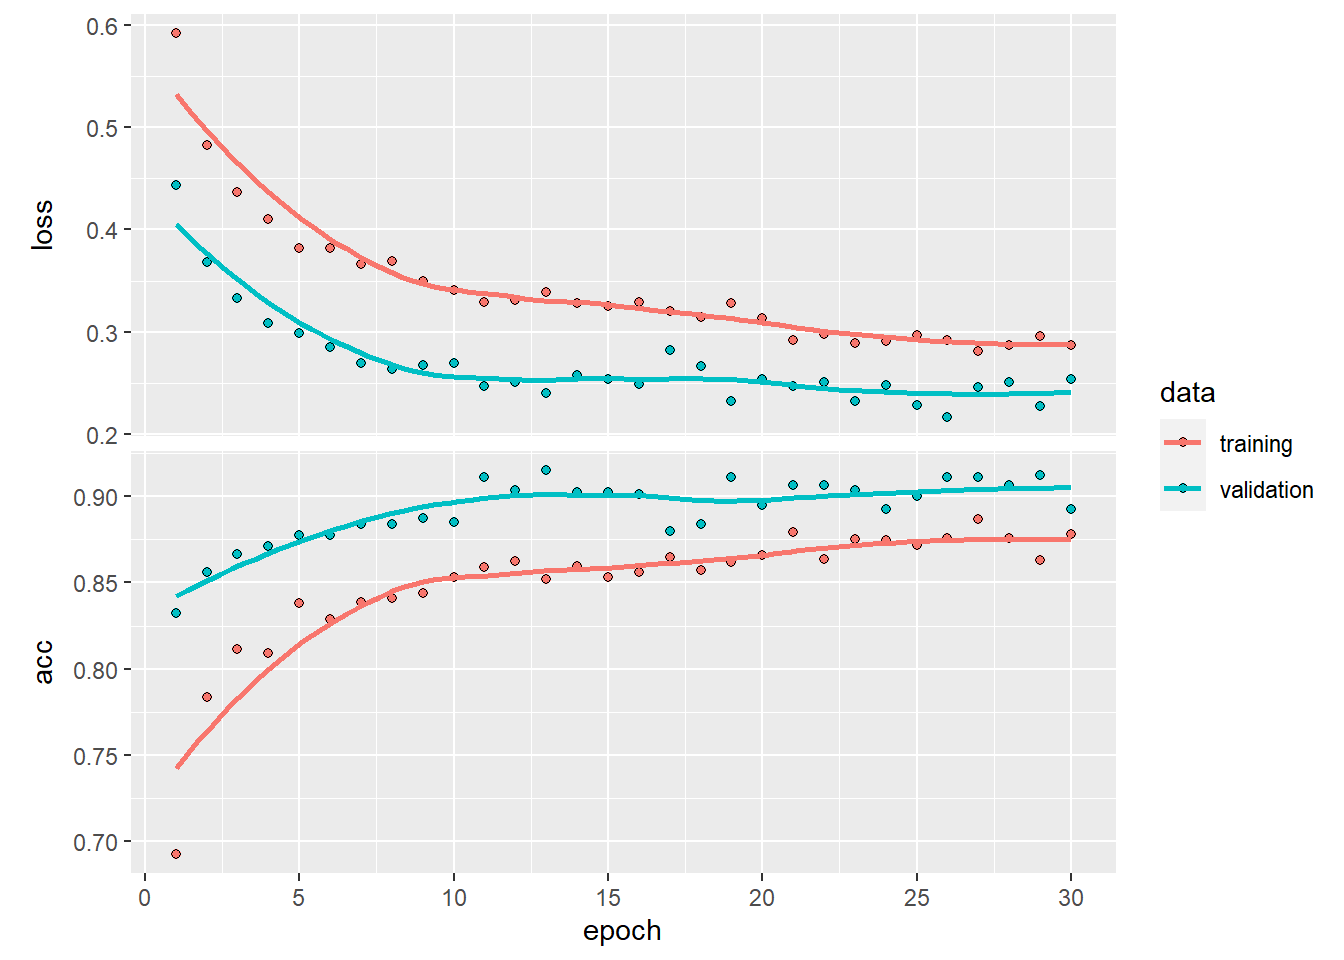
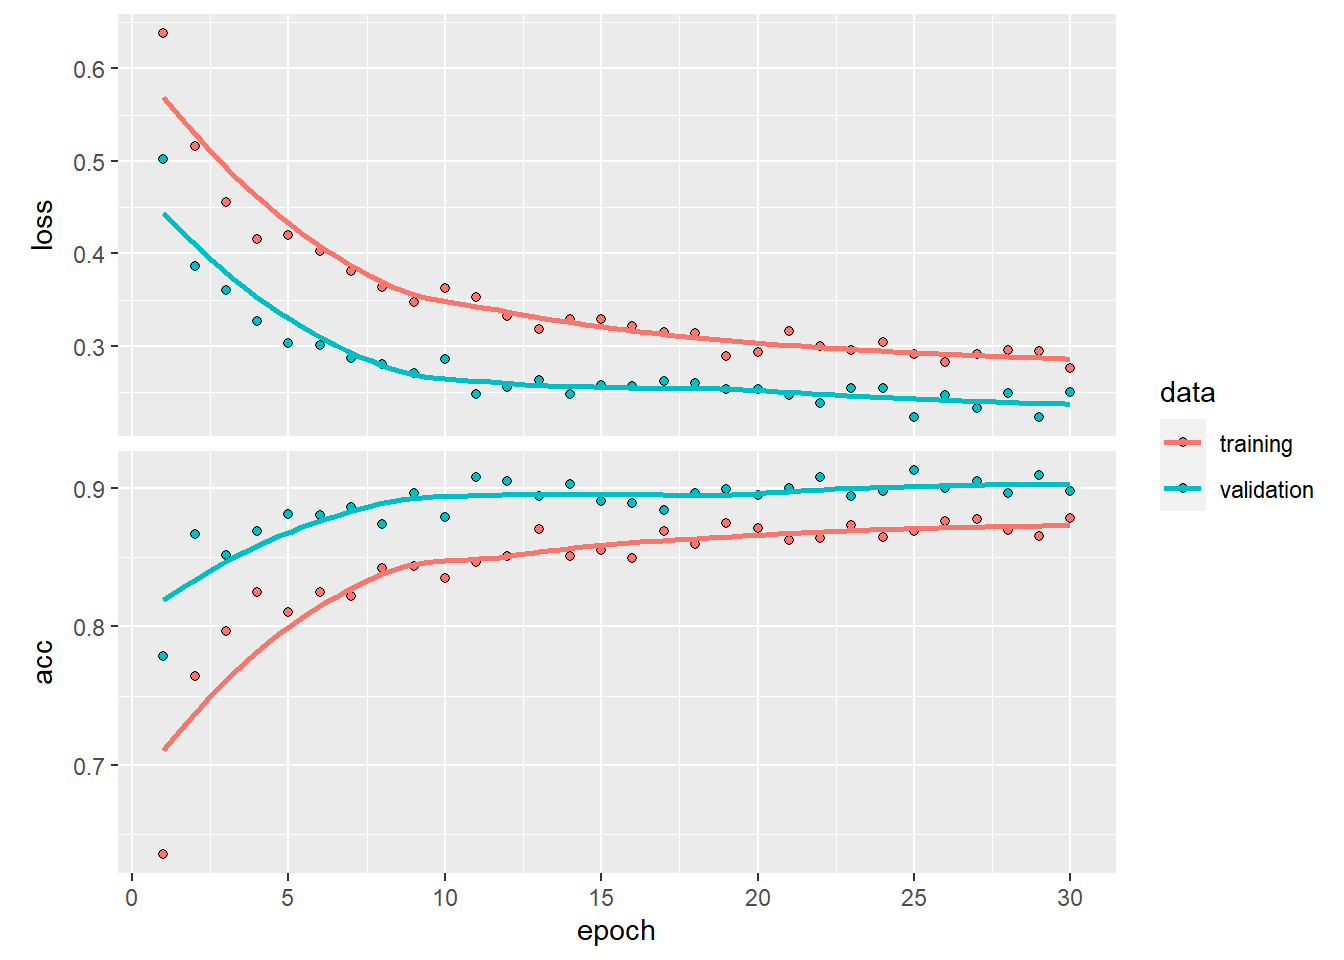
test

diff --git a/docs/dog_and_cat.html b/docs/dog_and_cat.html
@@ -14,7 +14,7 @@
 
 <title>犬猫判別AIを作って愛犬を判別してみる(実践編)</title>
 
-<script src="site_libs/header-attrs-2.19/header-attrs.js"></script>
+<script src="site_libs/header-attrs-2.21/header-attrs.js"></script>
 <script src="site_libs/jquery-3.6.0/jquery-3.6.0.min.js"></script>
 <meta name="viewport" content="width=device-width, initial-scale=1" />
 <link href="site_libs/bootstrap-3.3.5/css/cosmo.min.css" rel="stylesheet" />
@@ -414,8 +414,8 @@ validation_generator &lt;- flow_images_from_directory(
 batch &lt;- generator_next(train_generator)
 str(batch)</code></pre>
 <pre><code>## List of 2
-##  $ : num [1:16, 1:150, 1:150, 1:3] 0.8039 0.0706 0.0863 0.4471 0.102 ...
-##  $ : num [1:16(1d)] 1 1 0 0 1 1 1 1 1 1 ...</code></pre>
+##  $ : num [1:16, 1:150, 1:150, 1:3] 0.282 0.29 0.106 0.239 0.596 ...
+##  $ : num [1:16(1d)] 1 1 0 0 1 1 0 1 0 1 ...</code></pre>
 <p>20枚ずつ、150×150にそろえて0,1のラベル付けをしています。手作業でやったら時間がかかることが関数で用意されているのは便利ですね。これでデータの準備は終わり。</p>
 </div>
 <div id="まずはシンプルにモデルを作ってみる" class="section level2">
@@ -598,7 +598,7 @@ plot(history)</code></pre>
 <p>テストデータを使って、正答率を見てみます。</p>
 <pre class="r"><code>model %&gt;% evaluate(test_generator, steps = 50)</code></pre>
 <pre><code>##      loss       acc 
-## 0.2646054 0.8875000</code></pre>
+## 0.2386079 0.9012500</code></pre>
 <p>90%近く正解してます!これは上出来ですね。</p>
 </div>
 <div id="さらに精度を高めるためファインチューニング"
@@ -625,7 +625,7 @@ plot(history)</code></pre>
 <p>正確度は前回より6ポイントアップして96%ほどでした。テストデータを入れてみます。</p>
 <pre class="r"><code>model %&gt;% evaluate(test_generator, steps = 50)</code></pre>
 <pre><code>##      loss       acc 
-## 0.2671071 0.9612500</code></pre>
+## 0.2851366 0.9675000</code></pre>
 <p>なんと96%とかなり高い正答率を出しています。犬と猫を判別できているといってよさそうです。
 頑張って作ったモデルなのでとりあえず保存します。</p>
 <pre class="r"><code># モデルの保存
@@ -639,11 +639,11 @@ model %&gt;% save_model_hdf5(&quot;cats_dogs_fine.h5&quot;)</code></pre>
 <p>犬だけだと本当に識別できてるかわからないので、昔に保護した子猫の画像との判別をさせてみます(下の画像が名もなき保護猫)。</p>
 <p><img src="dog_and_cat_files/figure-html/unnamed-chunk-19-1.png" width="672" /></p>
 <p>犬と猫を判別できるかやってみます。</p>
-<pre class="r"><code>model %&gt;% evaluate(cherry_generator, steps = 1)</code></pre>
-<pre><code>##        loss         acc 
-## 0.004733005 1.000000000</code></pre>
+<pre class="r"><code>model %&gt;% evaluate(cherry_generator, steps = 2)</code></pre>
+<pre><code>##     loss      acc 
+## 7.303967 0.500000</code></pre>
 <p>正答率が1.00なので2枚の犬と猫を無事判別することができました。自分で作ったモデルがしっかり機能しているのはうれしいものがありますね。</p>
-<p>さらに、チェリー25枚、保護猫25枚で判別させてみましたが結果は80%止まりでした。顔の向きが正面でなかったり、対象が近すぎるor遠すぎる、別の物体(人や花)が画像に含まれていったなどで判別が難しい画像が含まれていたことが原因だと考えられます。対象の位置も考慮したモデルや学習をしたら改善されそうですね。</p>
+<p>さらに、チェリー25枚、保護猫25枚で判別させてみましたが結果は80%止まりでした。顔の向きが正面でなかったり、対象が近すぎるor遠すぎる、別の物体(人や花)が画像に含まれていったなどで判別が難しい画像が含まれていたことが原因だと考えられます。対象の位置も考慮したモデルや学習をしたら改善されそうです。</p>
 </div>
 <div id="最後に" class="section level2">
 <h2>最後に</h2>
